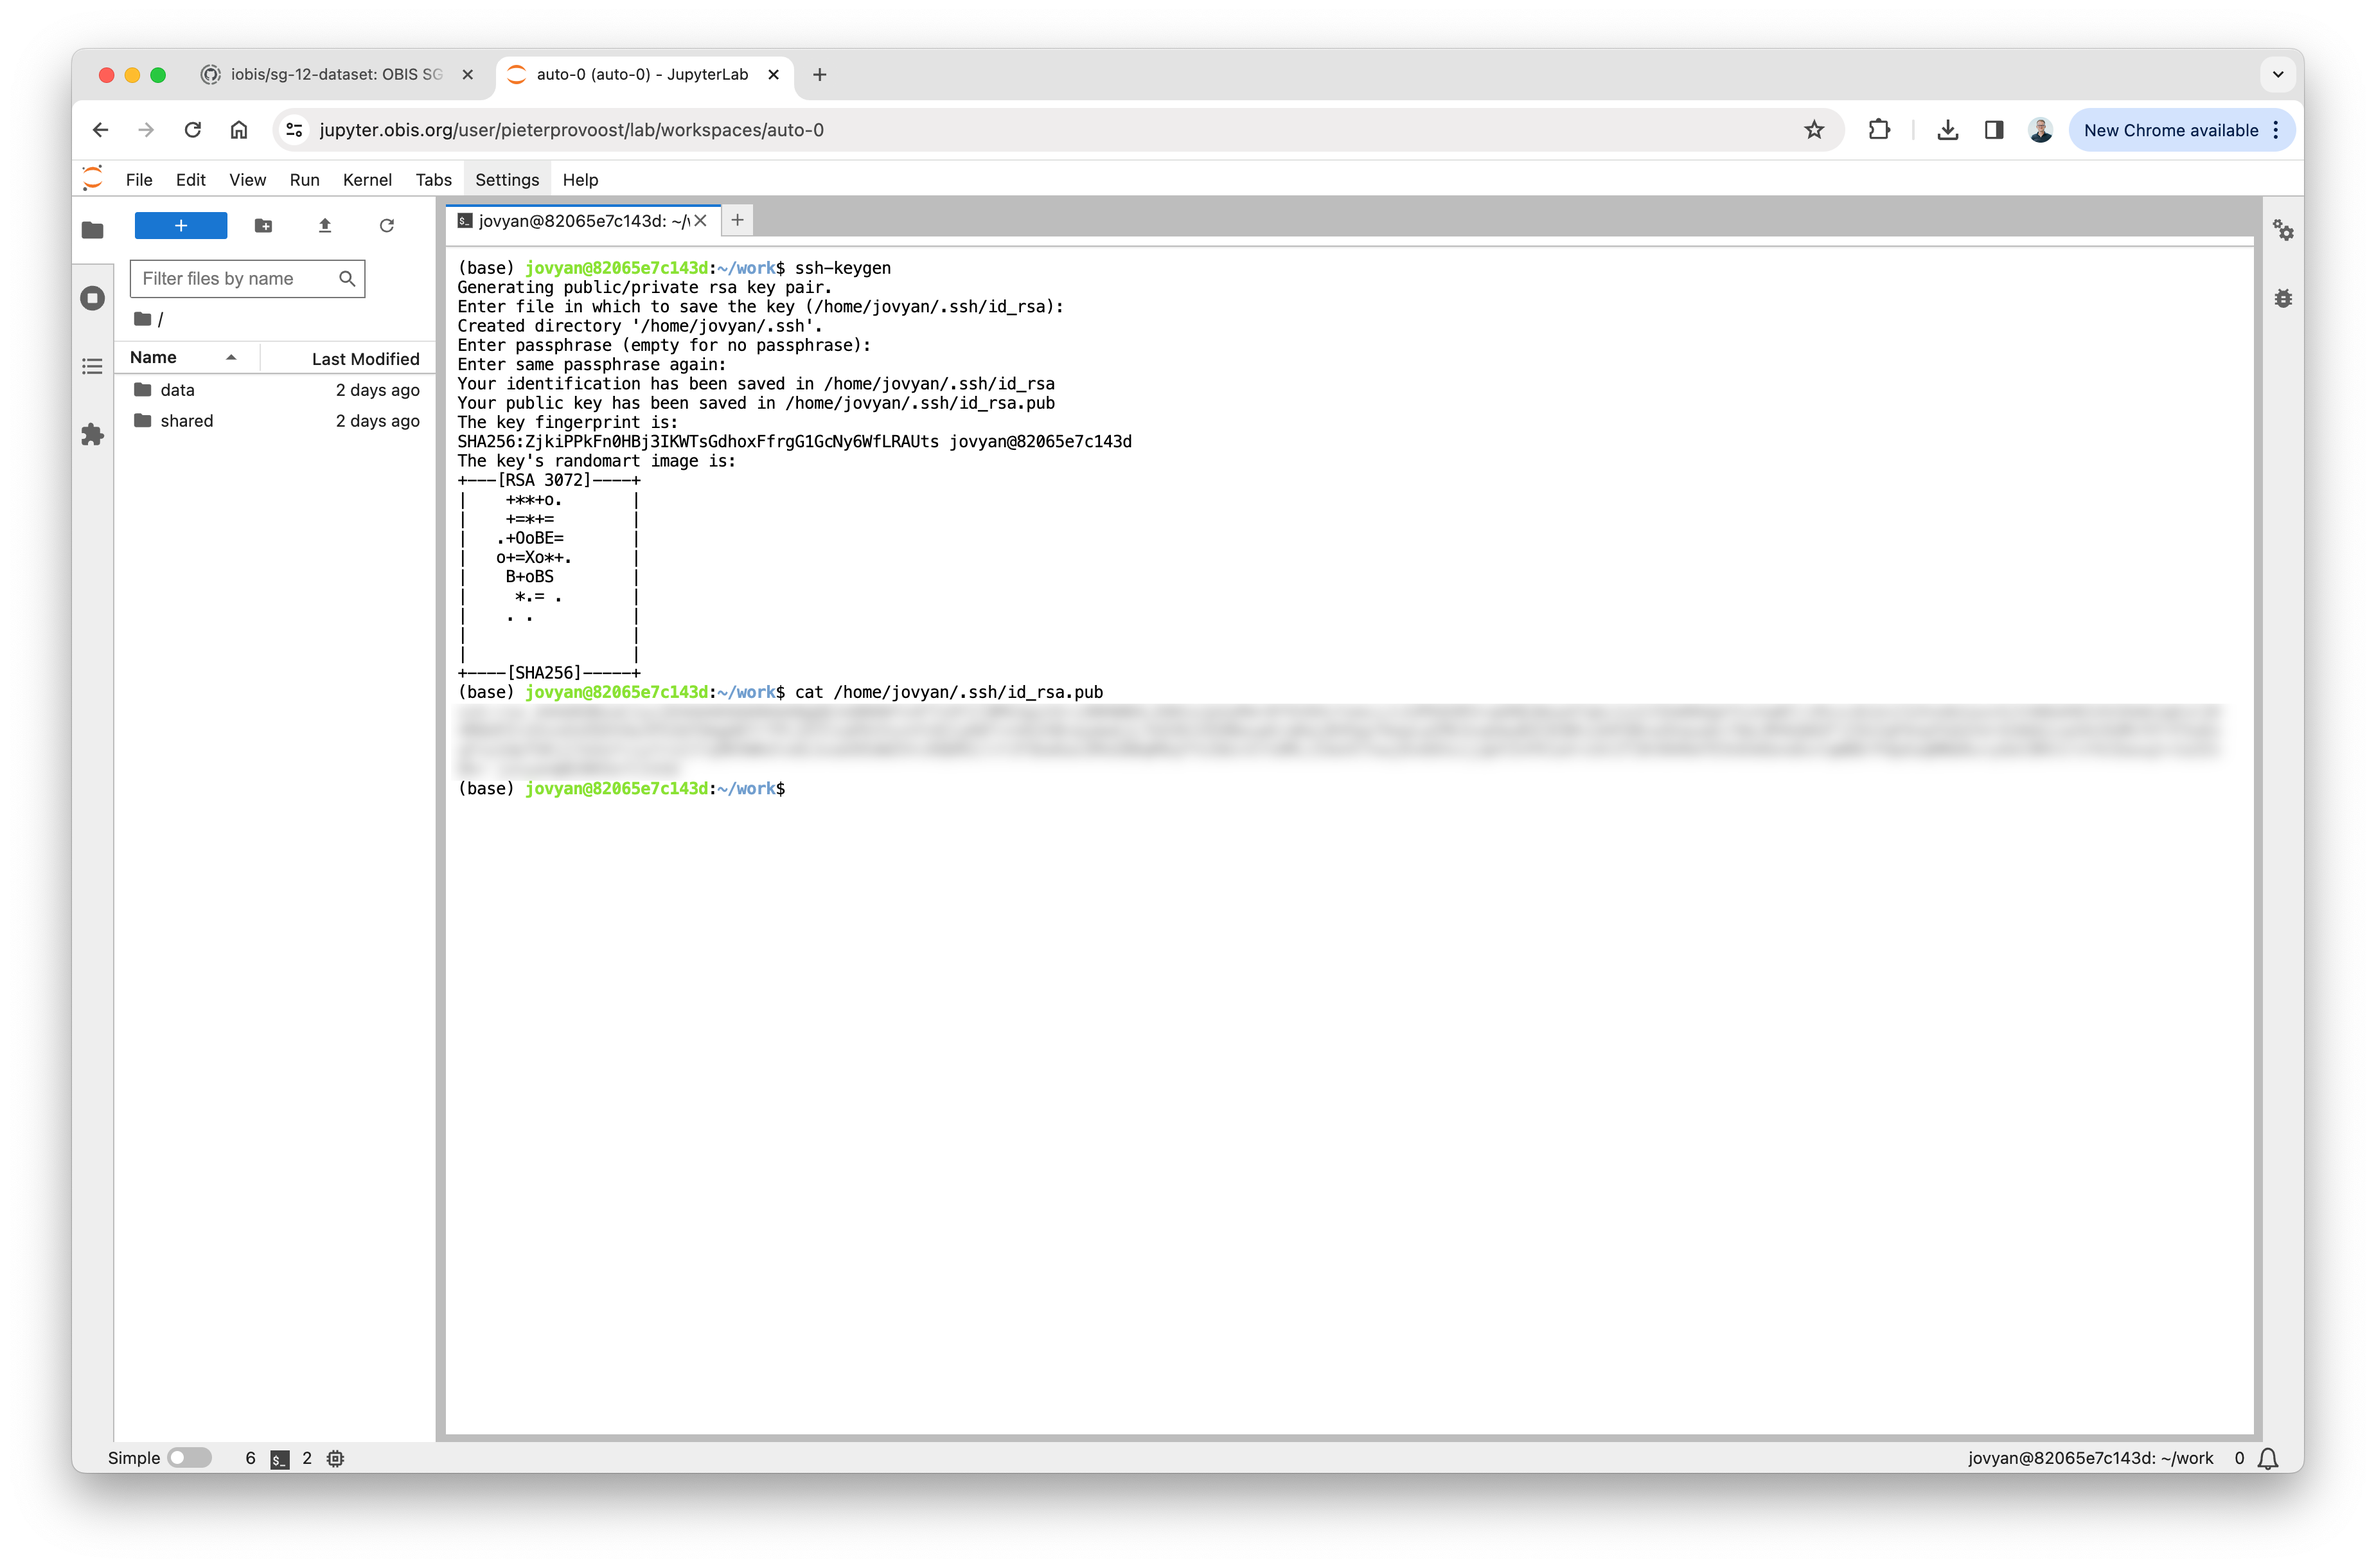
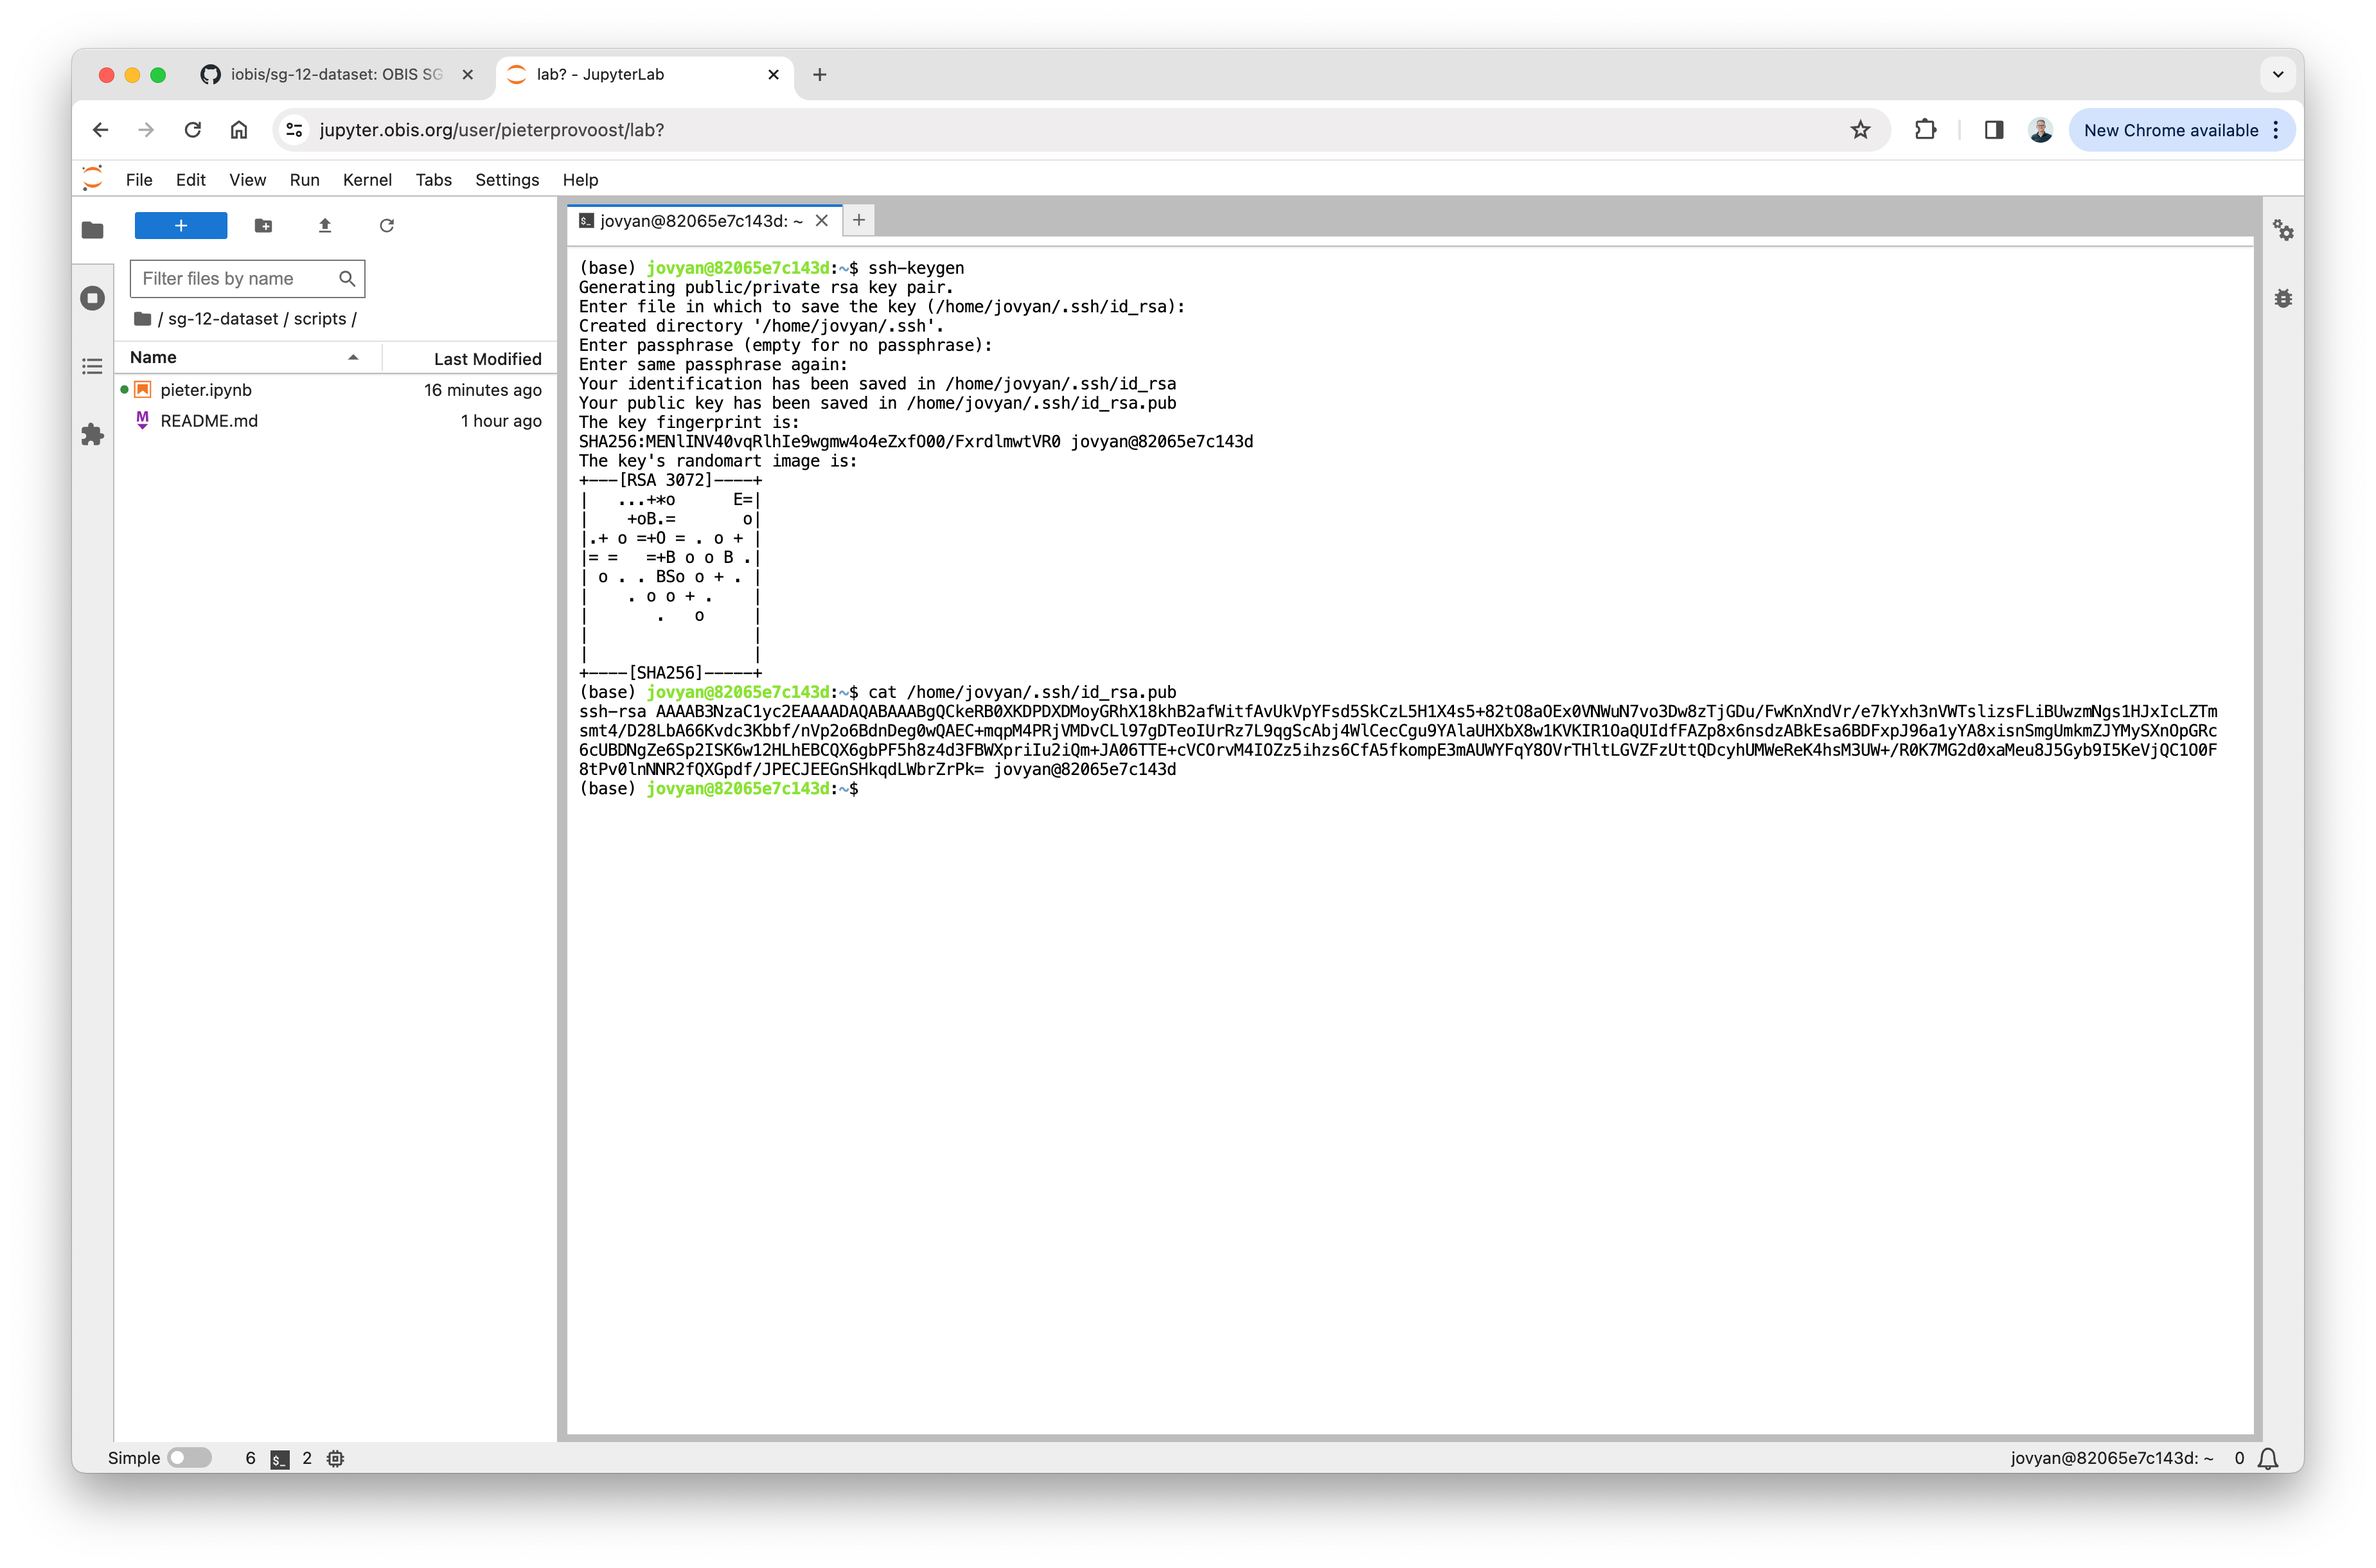
github authentication

diff --git a/dataset.md b/dataset.md
@@ -2,7 +2,18 @@
 
 ## Authentication with GitHub
 
+To be able to pull and push code from and to GitHub, we need to authenticate ourselves with GitHub first. To do this, we will generaten an SSH key pair, and upload the public key to GitHub. Run the following commands in a new terminal:
+
+```bash
+ssh-keygen
+cat ~/.ssh/id_rsa.pub
+```
+
+This will print the public key to the terminal. Copy the key, go to GitHub, and add it to your SSH keys in your account settings.
+
 ![](images/jupyter_ssh.png)
+
+![](images/github_key.png)
 
 ## Cloning the dataset repository
 
